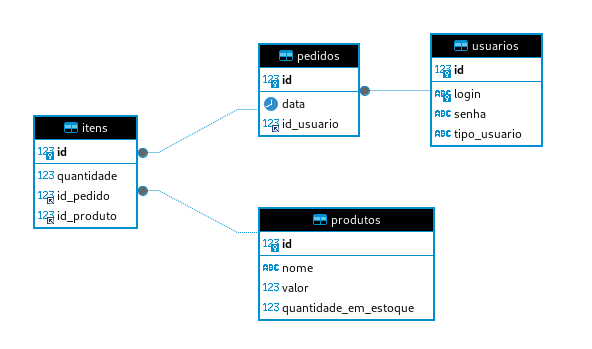
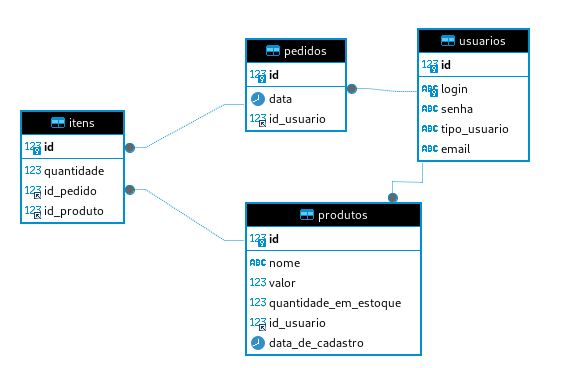
Implementando atributo email de usuario

diff --git a/src/main/java/pedidos/api/model/Usuario.java b/src/main/java/pedidos/api/model/Usuario.java
@@ -26,6 +26,7 @@ public class Usuario implements UserDetails {
     @Id
     @GeneratedValue(strategy = GenerationType.IDENTITY)
     private Long id;
+    private String email;
     private String login;
     private String senha;
     @Enumerated(EnumType.STRING)
@@ -34,12 +35,14 @@ public class Usuario implements UserDetails {
     public Usuario(DadosCadastroUsuario dadosCadastroUsuario) {
         this.login = dadosCadastroUsuario.login();
         this.senha = new BCryptPasswordEncoder().encode(dadosCadastroUsuario.senha());
+        this.email = dadosCadastroUsuario.email();
     }
 
     public void atualizarDados(DadosAtualizacaoUsuario dadosAtualizacaoUsuario) {
         this.login = (dadosAtualizacaoUsuario.login() != null) ? dadosAtualizacaoUsuario.login() : this.login;
         this.senha = (dadosAtualizacaoUsuario.senha() != null) ?
                 new BCryptPasswordEncoder().encode(dadosAtualizacaoUsuario.senha()) : this.senha;
+        this.email = (dadosAtualizacaoUsuario.email() != null) ? dadosAtualizacaoUsuario.email() : this.email;
     }
 
     @Override

diff --git a/src/main/java/pedidos/api/controller/UsuarioController.java b/src/main/java/pedidos/api/controller/UsuarioController.java
@@ -4,14 +4,12 @@ import jakarta.validation.Valid;
 import org.springframework.beans.factory.annotation.Autowired;
 import org.springframework.data.domain.Pageable;
 import org.springframework.http.ResponseEntity;
-import org.springframework.security.authentication.AuthenticationManager;
 import org.springframework.transaction.annotation.Transactional;
 import org.springframework.web.bind.annotation.*;
 import org.springframework.web.util.UriComponentsBuilder;
 import pedidos.api.dto.usuario.DadosAtualizacaoUsuario;
 import pedidos.api.dto.usuario.DadosCadastroUsuario;
 import pedidos.api.dto.usuario.DadosDetalhamentoUsuario;
-import pedidos.api.service.security.TokenService;
 import pedidos.api.model.Usuario;
 import pedidos.api.repository.UsuarioRepository;
 

diff --git a/src/main/java/pedidos/api/dto/usuario/DadosDetalhamentoUsuario.java b/src/main/java/pedidos/api/dto/usuario/DadosDetalhamentoUsuario.java
@@ -6,12 +6,14 @@ import pedidos.api.model.Usuario;
 public record DadosDetalhamentoUsuario(
         Long id,
         String login,
+        String email,
         TipoUsuario tipoUsuario
 ) {
     public DadosDetalhamentoUsuario(Usuario usuario) {
         this(
                 usuario.getId(),
                 usuario.getLogin(),
+                usuario.getEmail(),
                 usuario.getTipoUsuario()
         );
     }

diff --git a/src/main/java/pedidos/api/dto/usuario/DadosCadastroUsuario.java b/src/main/java/pedidos/api/dto/usuario/DadosCadastroUsuario.java
@@ -1,11 +1,14 @@
 package pedidos.api.dto.usuario;
 
+import jakarta.validation.constraints.Email;
 import jakarta.validation.constraints.NotBlank;
 
 public record DadosCadastroUsuario(
         @NotBlank
         String login,
         @NotBlank
-        String senha
+        String senha,
+        @Email
+        String email
 ) {
 }

diff --git a/src/main/java/pedidos/api/dto/usuario/DadosAtualizacaoUsuario.java b/src/main/java/pedidos/api/dto/usuario/DadosAtualizacaoUsuario.java
@@ -6,6 +6,7 @@ public record DadosAtualizacaoUsuario(
         @NotNull
         Long id,
         String login,
-        String senha
+        String senha,
+        String email
 ) {
 }

diff --git a/README.md b/README.md
@@ -11,6 +11,3 @@ Imagem do projeto representado por DER.
 
 Além do sistema de gerenciamento de pedidos, o código fonte contém implementação de conceitos de qualidade de software baseados nos princípios SOLID e implementação de um sistema de segurança que contém gerenciamento de acesso multicamada com níveis de permissões de acesso diferentes para usuário comum e usuário administrador.
 
-Imagem do projeto representado por DER, após implementação de nova funcionalidade.
-
-![DER2](imagens/der2.png)
